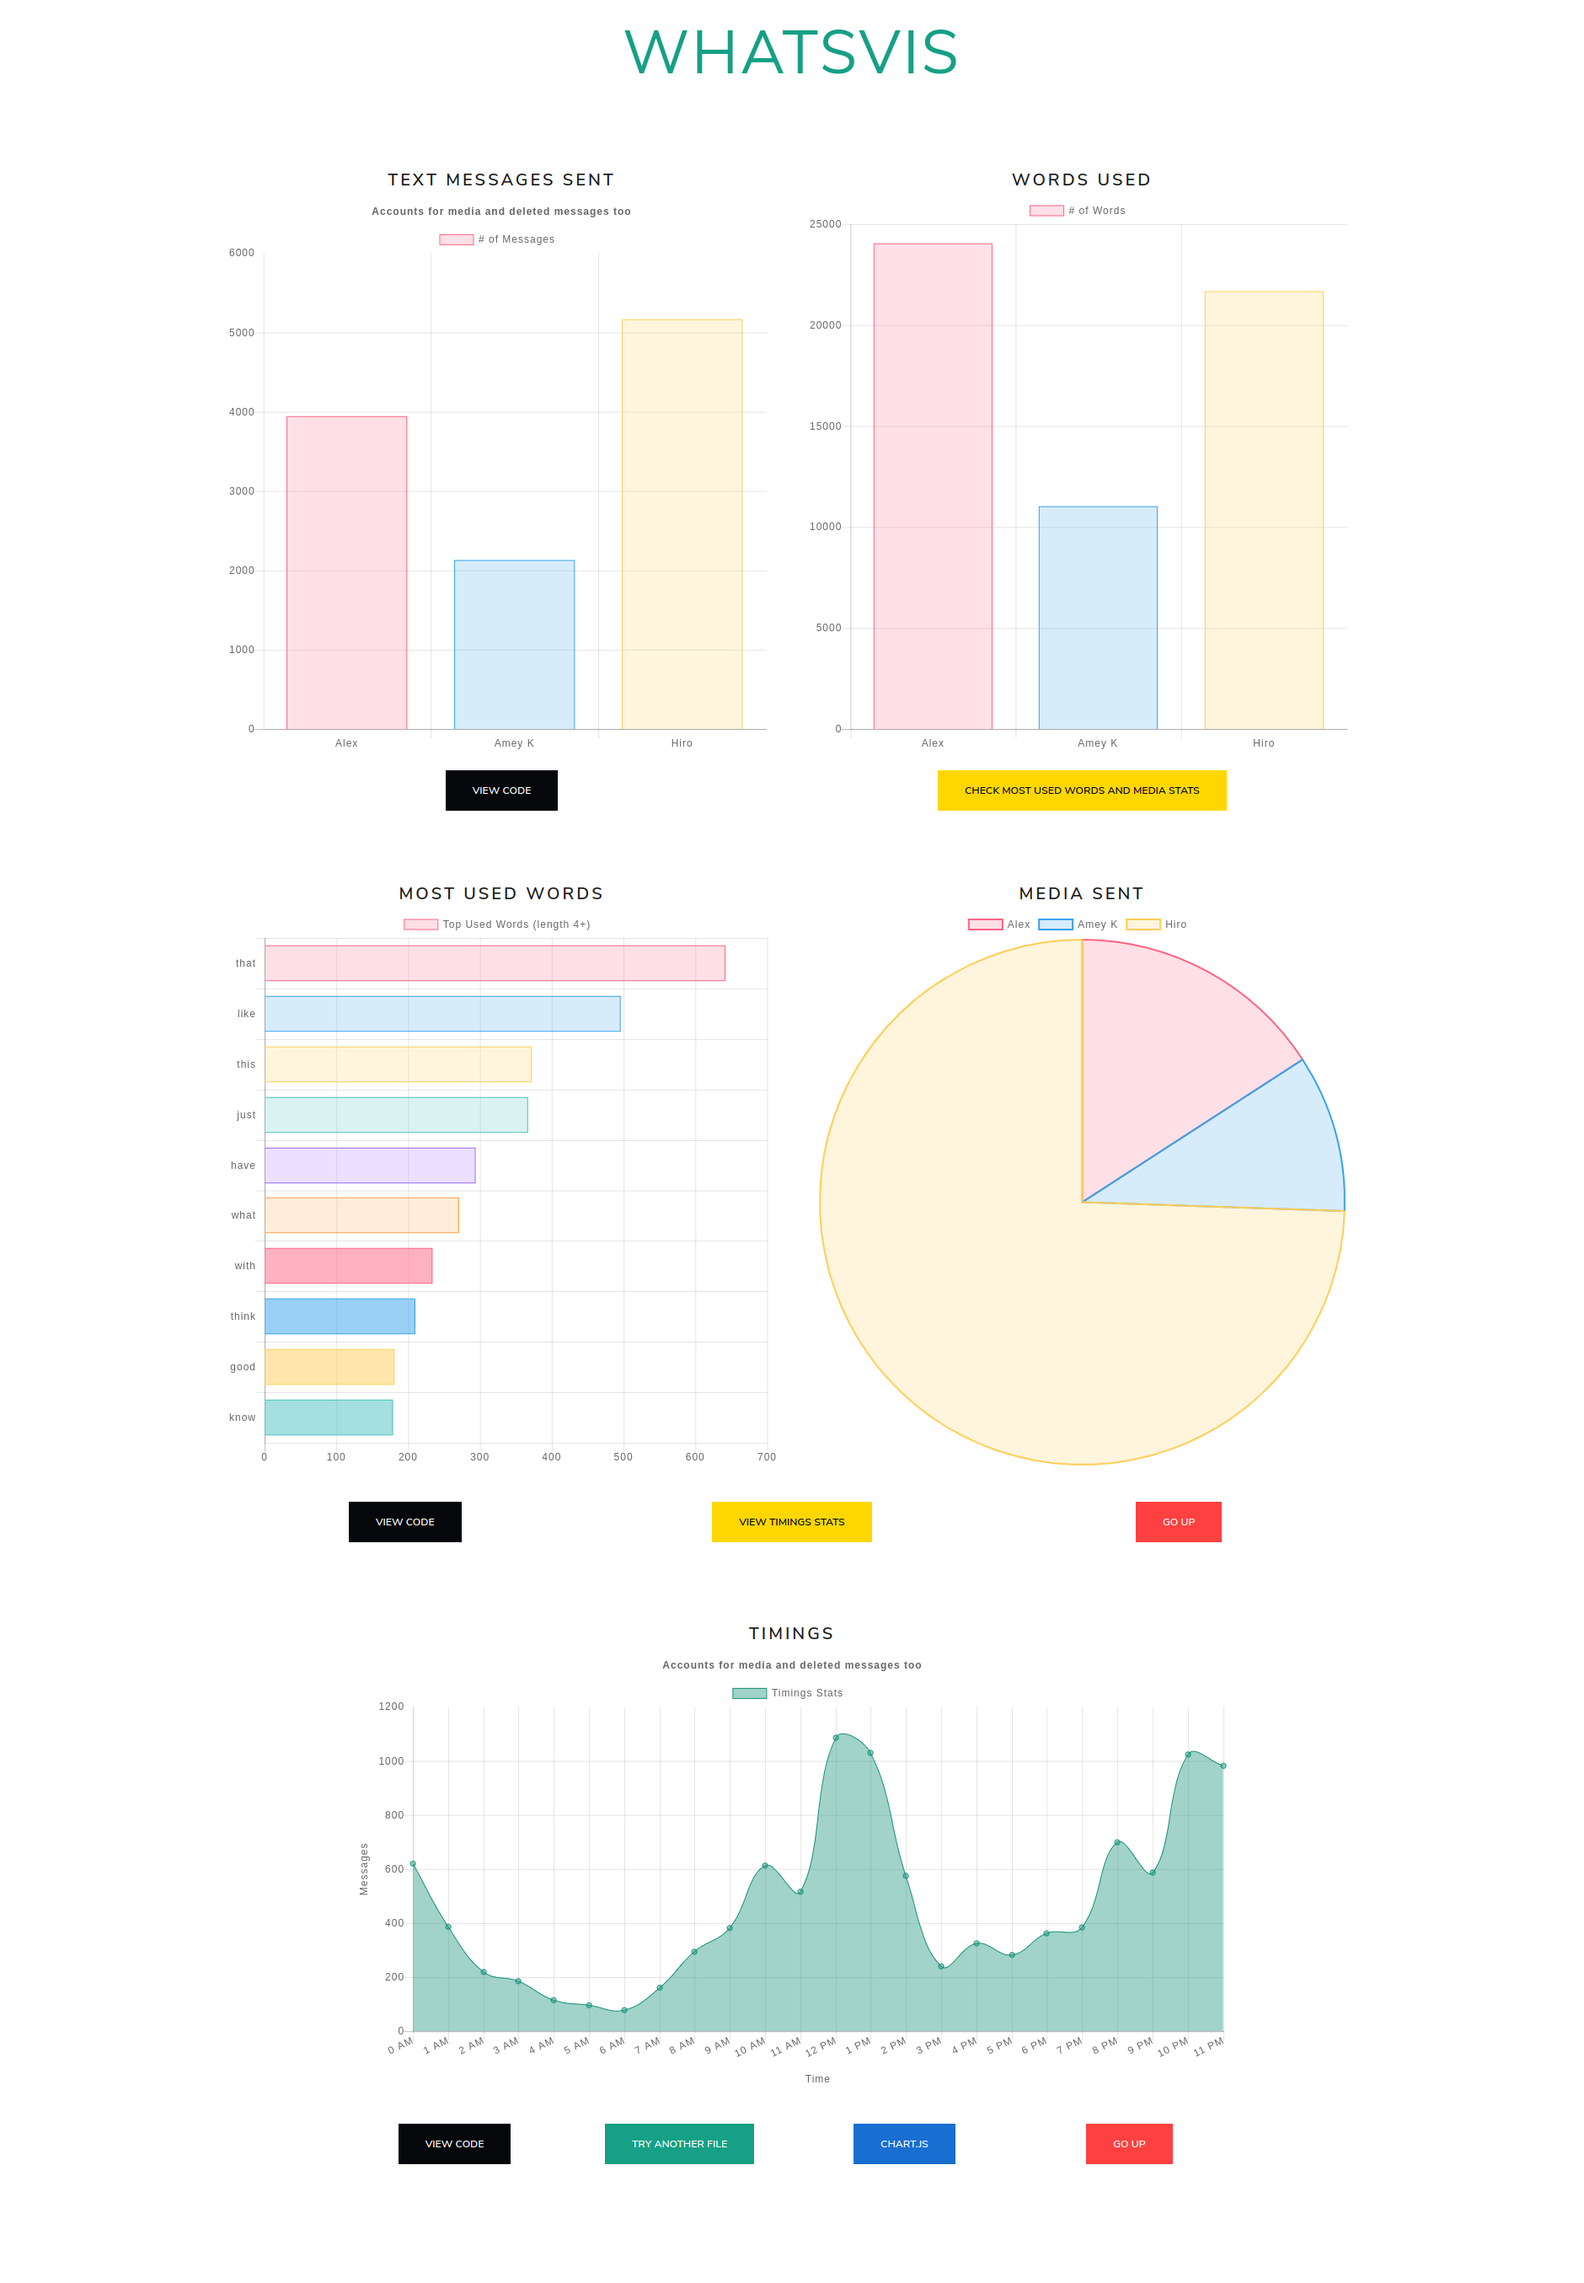
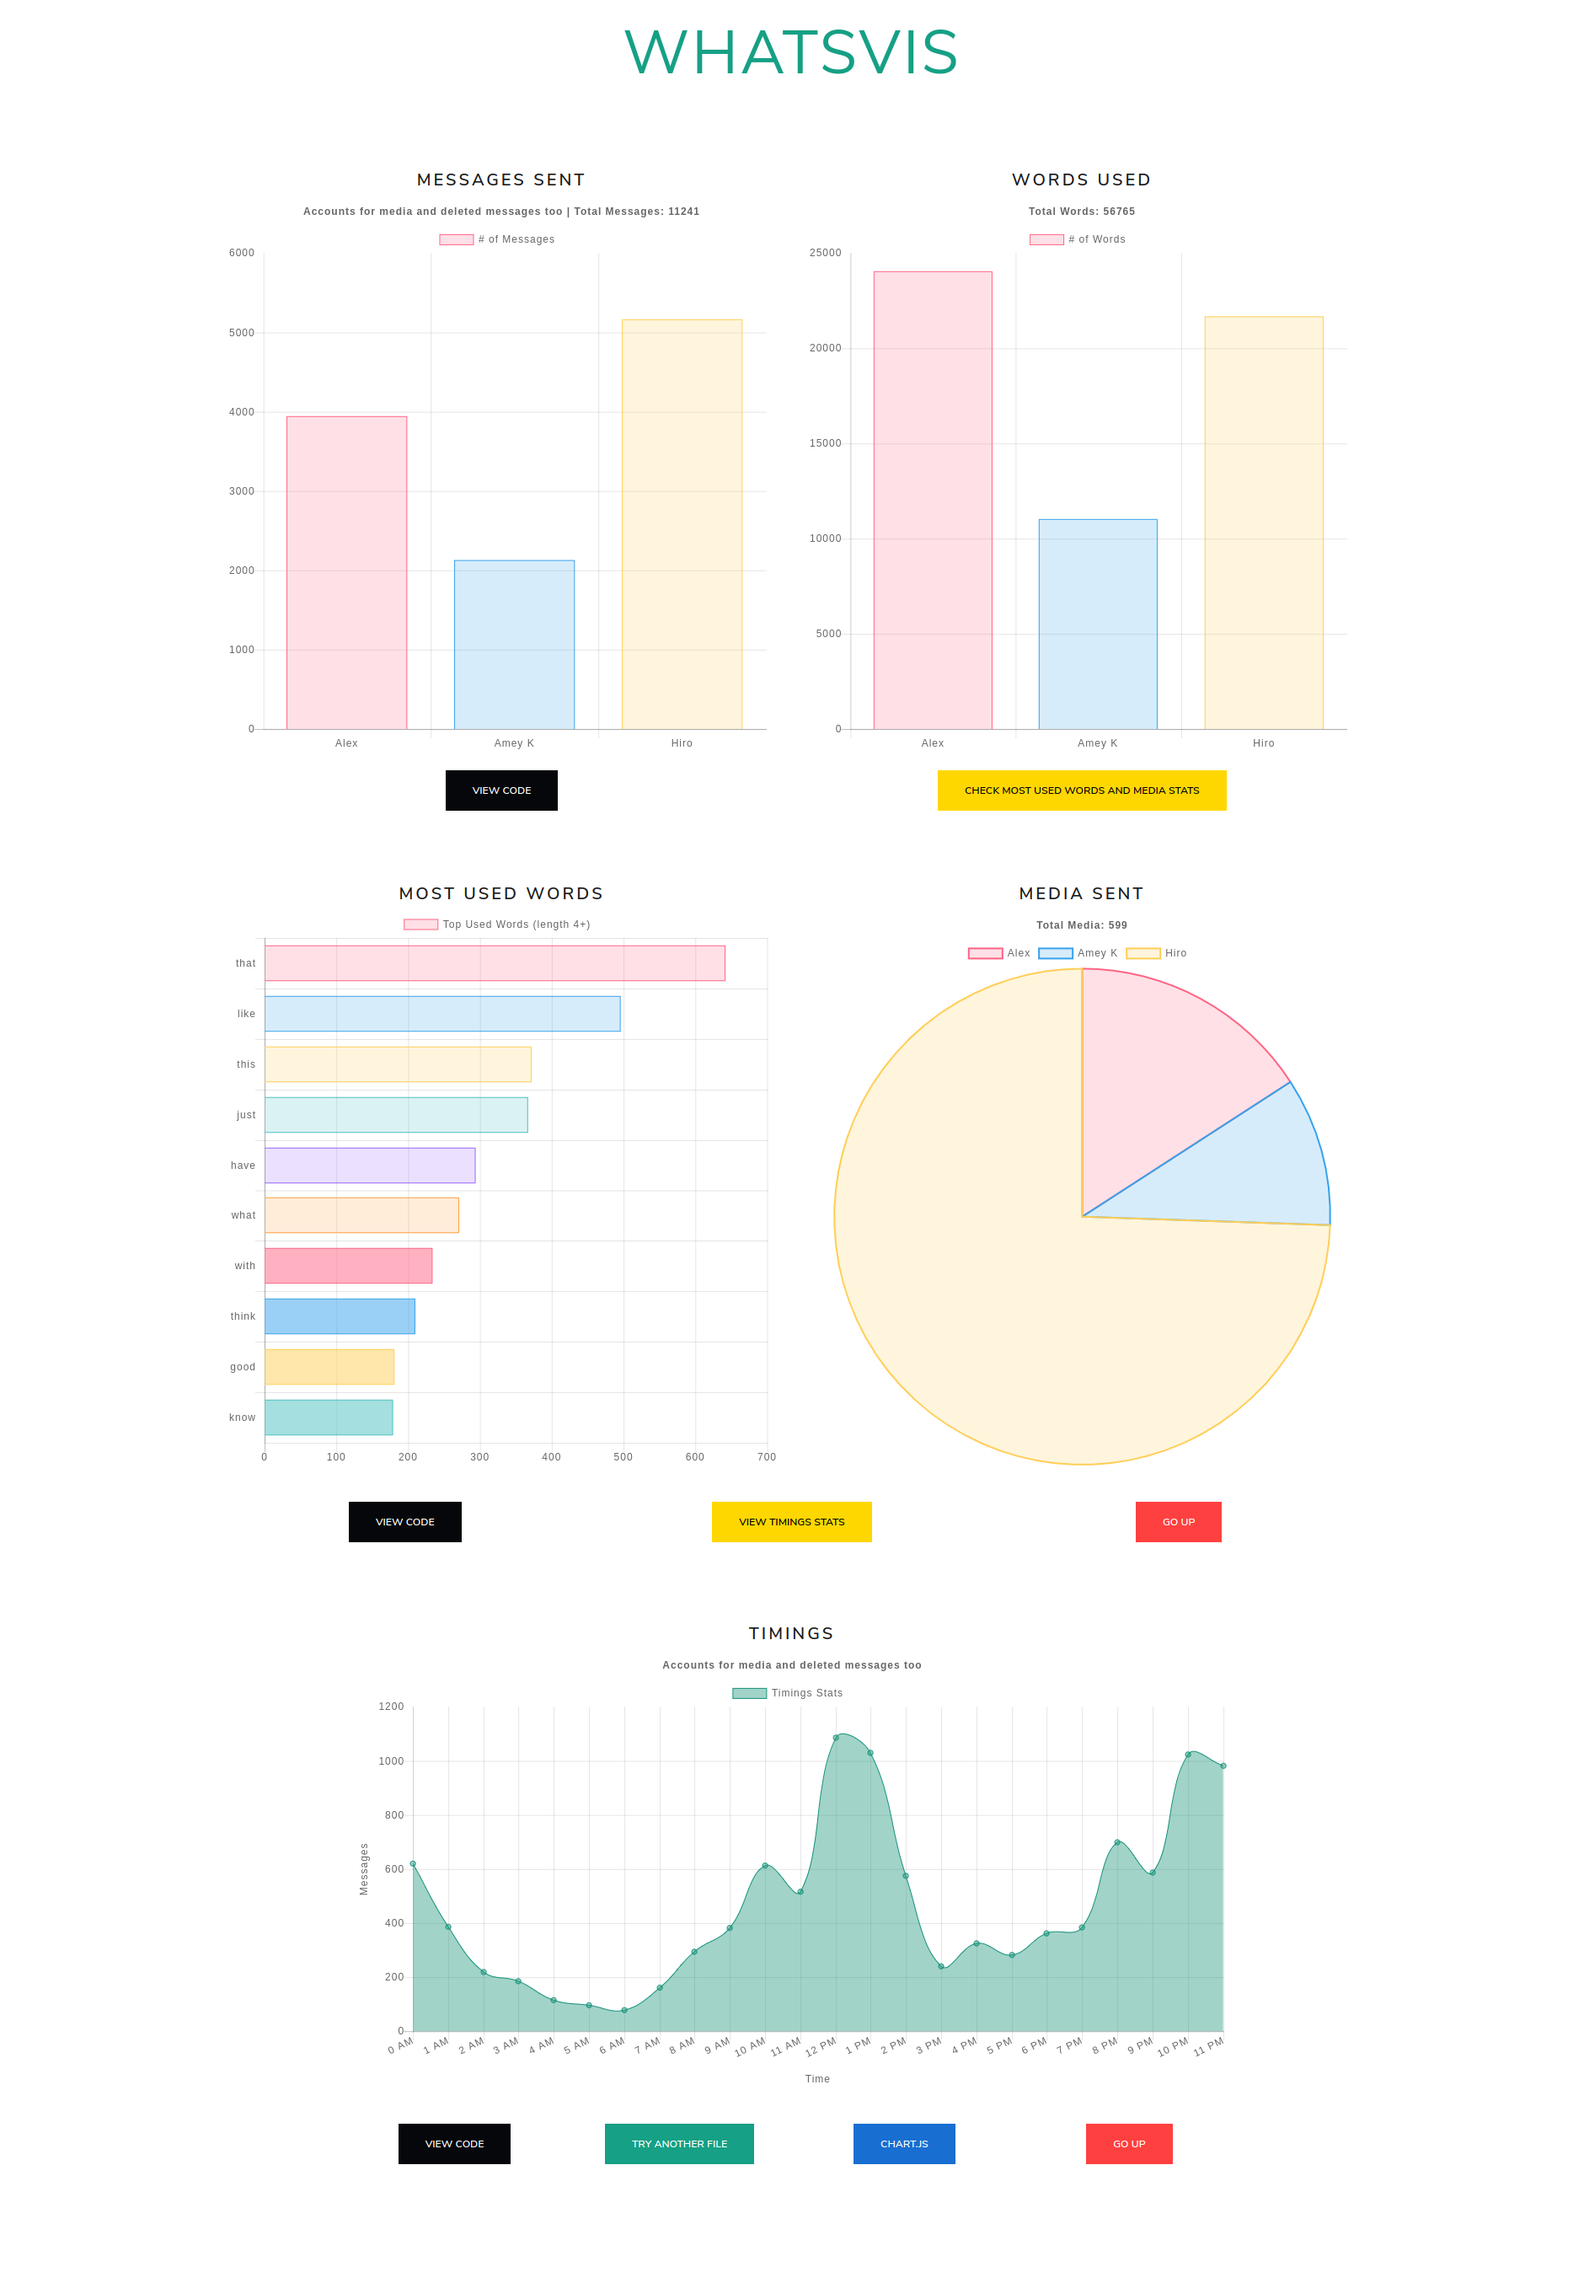
Added total stats, Updated Screenshot

diff --git a/index.js b/index.js
@@ -234,11 +234,23 @@ main = (doc) => {
     return [users, data[0], data[1], data[2], topWords, times];
 }
 
+add = (a, b) => {
+    return a+b;
+}
+
 graphData = (anadata) => {
     let users = anadata[0];
     let msgs = anadata[1];
     let wrds = anadata[2];
     let mda = anadata[3];
+
+    const total_msgs = msgs.reduce(add);
+    const total_wrds = wrds.reduce(add);
+    const total_mda = mda.reduce(add);
+
+    const msgs_msg = "Accounts for media and deleted messages too | Total Messages: " + total_msgs;
+    const wrds_msg = "Total Words: " + total_wrds;
+    const mda_msg = "Total Media: " + total_mda;
 
     let ctx_msgs = document.getElementById("msgs").getContext('2d');
     let msgChart = new Chart(ctx_msgs, {
@@ -282,7 +294,7 @@ graphData = (anadata) => {
         options: {
             title: {
                 display: true,
-                text: 'Accounts for media and deleted messages too'
+                text: msgs_msg
             },
             scales: {
                 yAxes: [{
@@ -334,6 +346,10 @@ graphData = (anadata) => {
             }]
         },
         options: {
+            title: {
+                display: true,
+                text: wrds_msg
+            },
             scales: {
                 yAxes: [{
                     ticks: {
@@ -384,6 +400,10 @@ graphData = (anadata) => {
         },
         options: {
             responsive: true,
+            title: {
+                display: true,
+                text: mda_msg
+            },
         }
     });
 }

diff --git a/index.html b/index.html
@@ -72,7 +72,7 @@
                 <div style="height: 600%; width: 87%; margin-left: auto; margin-right: auto;  padding: 5%; padding-bottom: 2.5%; text-align: center">
                     <div class="row">
                         <div class="col-lg-6 graph">
-                            <h4>Text Messages Sent</h4>
+                            <h4>Messages Sent</h4>
                             <canvas id="msgs" width="100%" height="100%"></canvas>
                         </div>
                         <div class="col-lg-6 graph">
